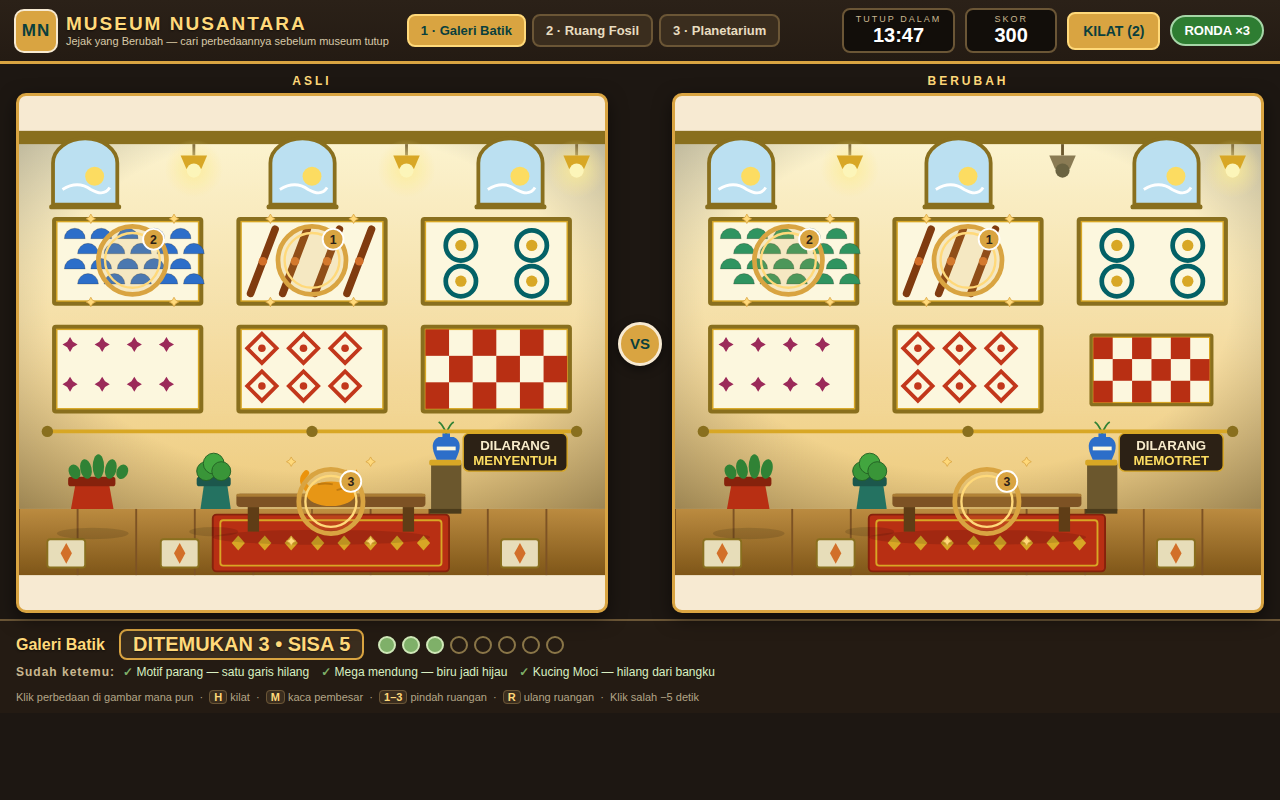
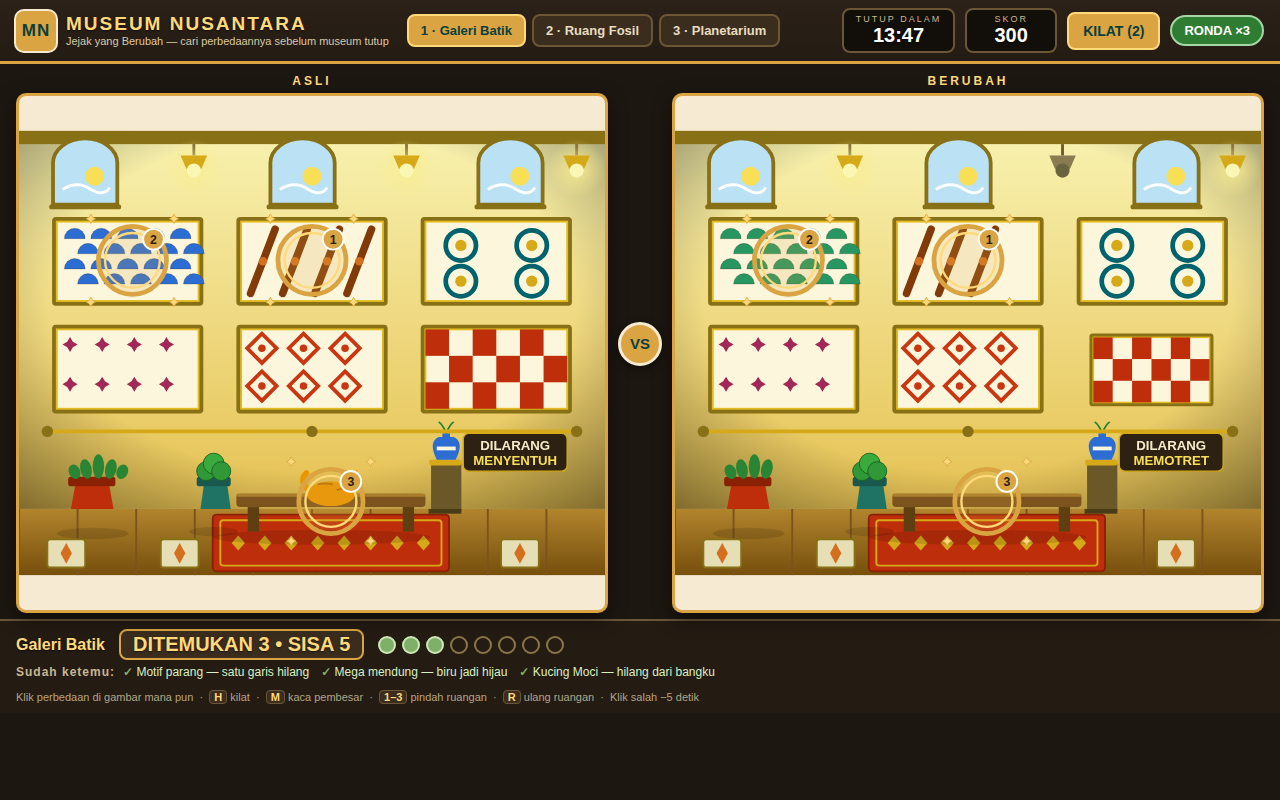
V1.3: Galeri Batik — color grading literal diperkuat (Museum Hangat+)
Cover lebih pop menuju rank 1: dinding gradasi emas lebih dalam,
saturasi motif naik (1.22->1.32), kontras 1.10->1.15, hueRotate 5.4->8,
vignette 0.35->0.45, bingkai emas lebih bercahaya. Ke-8 diff S1 tetap
terbaca di 300px; S2/S3/S4 tidak berubah (byte-identik).

Integrasi glfx.js asli DICOBA dan DIREVERT dalam sesi ini: resep Museum
Hangat via WebGL memutihkan dinding (wall 242,225,190 -> 255,255,204)
dan tidak jelas lebih baik dari literal; plus race kanvas nyangkut di
frame S2/S3 saat pindah scene (sudah diperbaiki tokennya sebelum revert).
Grade literal yang diperkuat menang di 300px + ukuran penuh.
Verifikasi: klik 30/30, 0 console error, pipeline main.ts 2x byte-identik,
dossier 1.318.722 B.

Changed region(s): [[0.0, 0.1562, 1.0, 0.6562]]

diff --git a/game/scenes.js b/game/scenes.js
@@ -27,7 +27,7 @@
     return '<g>' +
       '<rect x="' + (x - 5) + '" y="' + (y - 5) + '" width="' + (w + 10) + '" height="' + (h + 10) +
       '" rx="4" fill="#8a6d2f"/>' +
-      '<rect x="' + x + '" y="' + y + '" width="' + w + '" height="' + h + '" fill="#fdf6e3" stroke="#d9a441" stroke-width="1.5"/>' +
+      '<rect x="' + x + '" y="' + y + '" width="' + w + '" height="' + h + '" fill="#fdf6e3" stroke="#e8b64c" stroke-width="2"/>' +
       motif +
       '</g>';
   }
@@ -117,22 +117,26 @@
       // defs: gradasi dinding + lantai + glow lampu
       s += '<defs>' +
         '<linearGradient id="wall1" x1="0" y1="0" x2="0" y2="1">' +
-        '<stop offset="0" stop-color="#fdf3d8"/><stop offset="1" stop-color="#eec98f"/></linearGradient>' +
+        '<stop offset="0" stop-color="#fcefc0"/><stop offset="1" stop-color="#e8bd72"/></linearGradient>' +
         '<linearGradient id="floor1" x1="0" y1="0" x2="0" y2="1">' +
-        '<stop offset="0" stop-color="#b98a52"/><stop offset="1" stop-color="#7d5527"/></linearGradient>' +
+        '<stop offset="0" stop-color="#b08248"/><stop offset="1" stop-color="#754d22"/></linearGradient>' +
         '<radialGradient id="lampGlow" cx="0.5" cy="0.5" r="0.5">' +
         '<stop offset="0" stop-color="#ffe9a8" stop-opacity="0.9"/><stop offset="1" stop-color="#ffe9a8" stop-opacity="0"/></radialGradient>' +
         '<radialGradient id="vig1" cx="0.5" cy="0.45" r="0.75">' +
-        '<stop offset="0.6" stop-color="#000" stop-opacity="0"/><stop offset="1" stop-color="#000" stop-opacity="0.35"/></radialGradient>' +
+        '<stop offset="0.6" stop-color="#000" stop-opacity="0"/><stop offset="1" stop-color="#000" stop-opacity="0.45"/></radialGradient>' +
         '<filter id="grade1" x="-5%" y="-5%" width="110%" height="110%" color-interpolation-filters="sRGB">' +
-        '<feColorMatrix type="matrix" values="1.1 0 0 0 0.01 0 1.1 0 0 0.01 0 0 1.1 0 0 0.01 0 0 0 1 0"/>' +
-        '<feColorMatrix type="hueRotate" values="5.4"/>' +
-        '<feColorMatrix type="saturate" values="1.22"/>' +
+        '<feColorMatrix type="matrix" values="1.15 0 0 0 0 0 1.15 0 0 0 0 0 1.15 0 0 0 0 0 0 1 0"/>' +
+        '<feColorMatrix type="hueRotate" values="8"/>' +
+        '<feColorMatrix type="saturate" values="1.32"/>' +
         '</filter>' +
         '</defs>';
       // Grading resep "Museum Hangat" (skill color-grading-effects):
       // brightnessContrast(0.06, 0.10) + hueSaturation(0.03, 0.22),
       // diterapkan literal sebagai filter SVG (sRGB) pada seluruh scene.
+      // V1.3: diperkuat bertahap (saturate 1.22->1.32, kontras 1.10->1.15,
+      // hueRotate 5.4->8, vignette 0.35->0.45, dinding/lantai lebih dalam)
+      // karena integrasi glfx.js asli tidak jelas lebih baik (dinding
+      // memutih, motif tidak lebih terbaca) — direvert ke literal.
       s += '<g filter="url(#grade1)">';
       // ---- BACKGROUND: dinding + jendela lengkung + langit-langit ----
       s += '<rect x="0" y="0" width="620" height="400" fill="url(#wall1)"/>';
